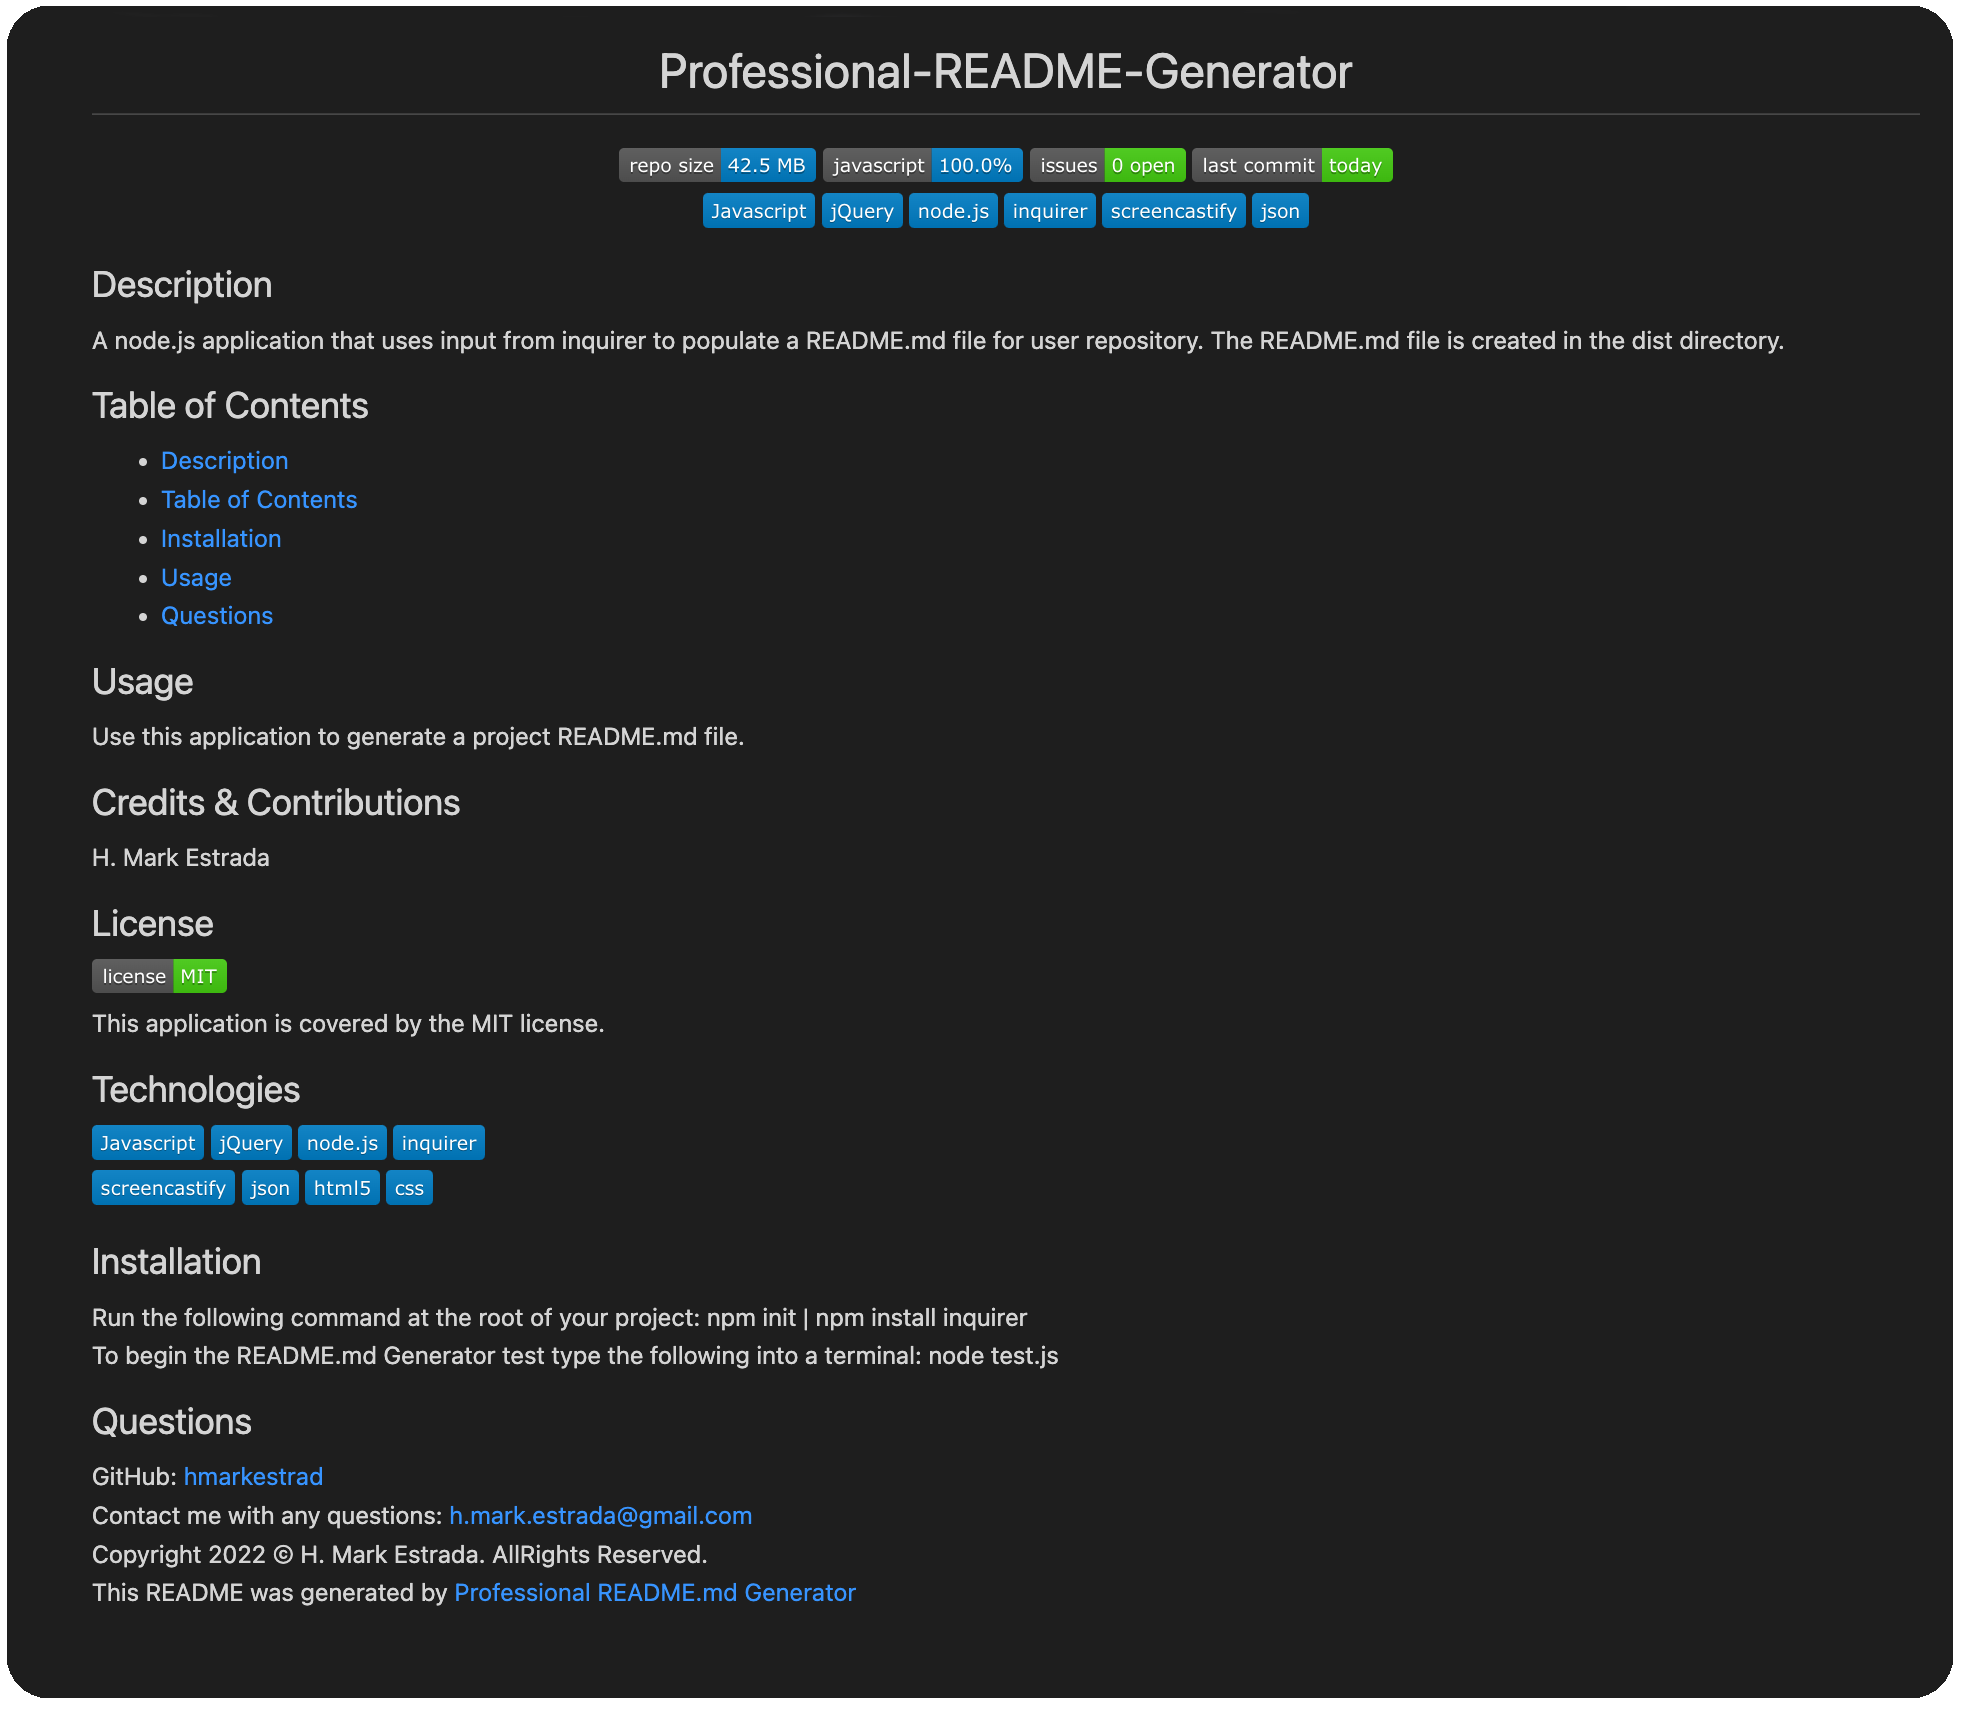
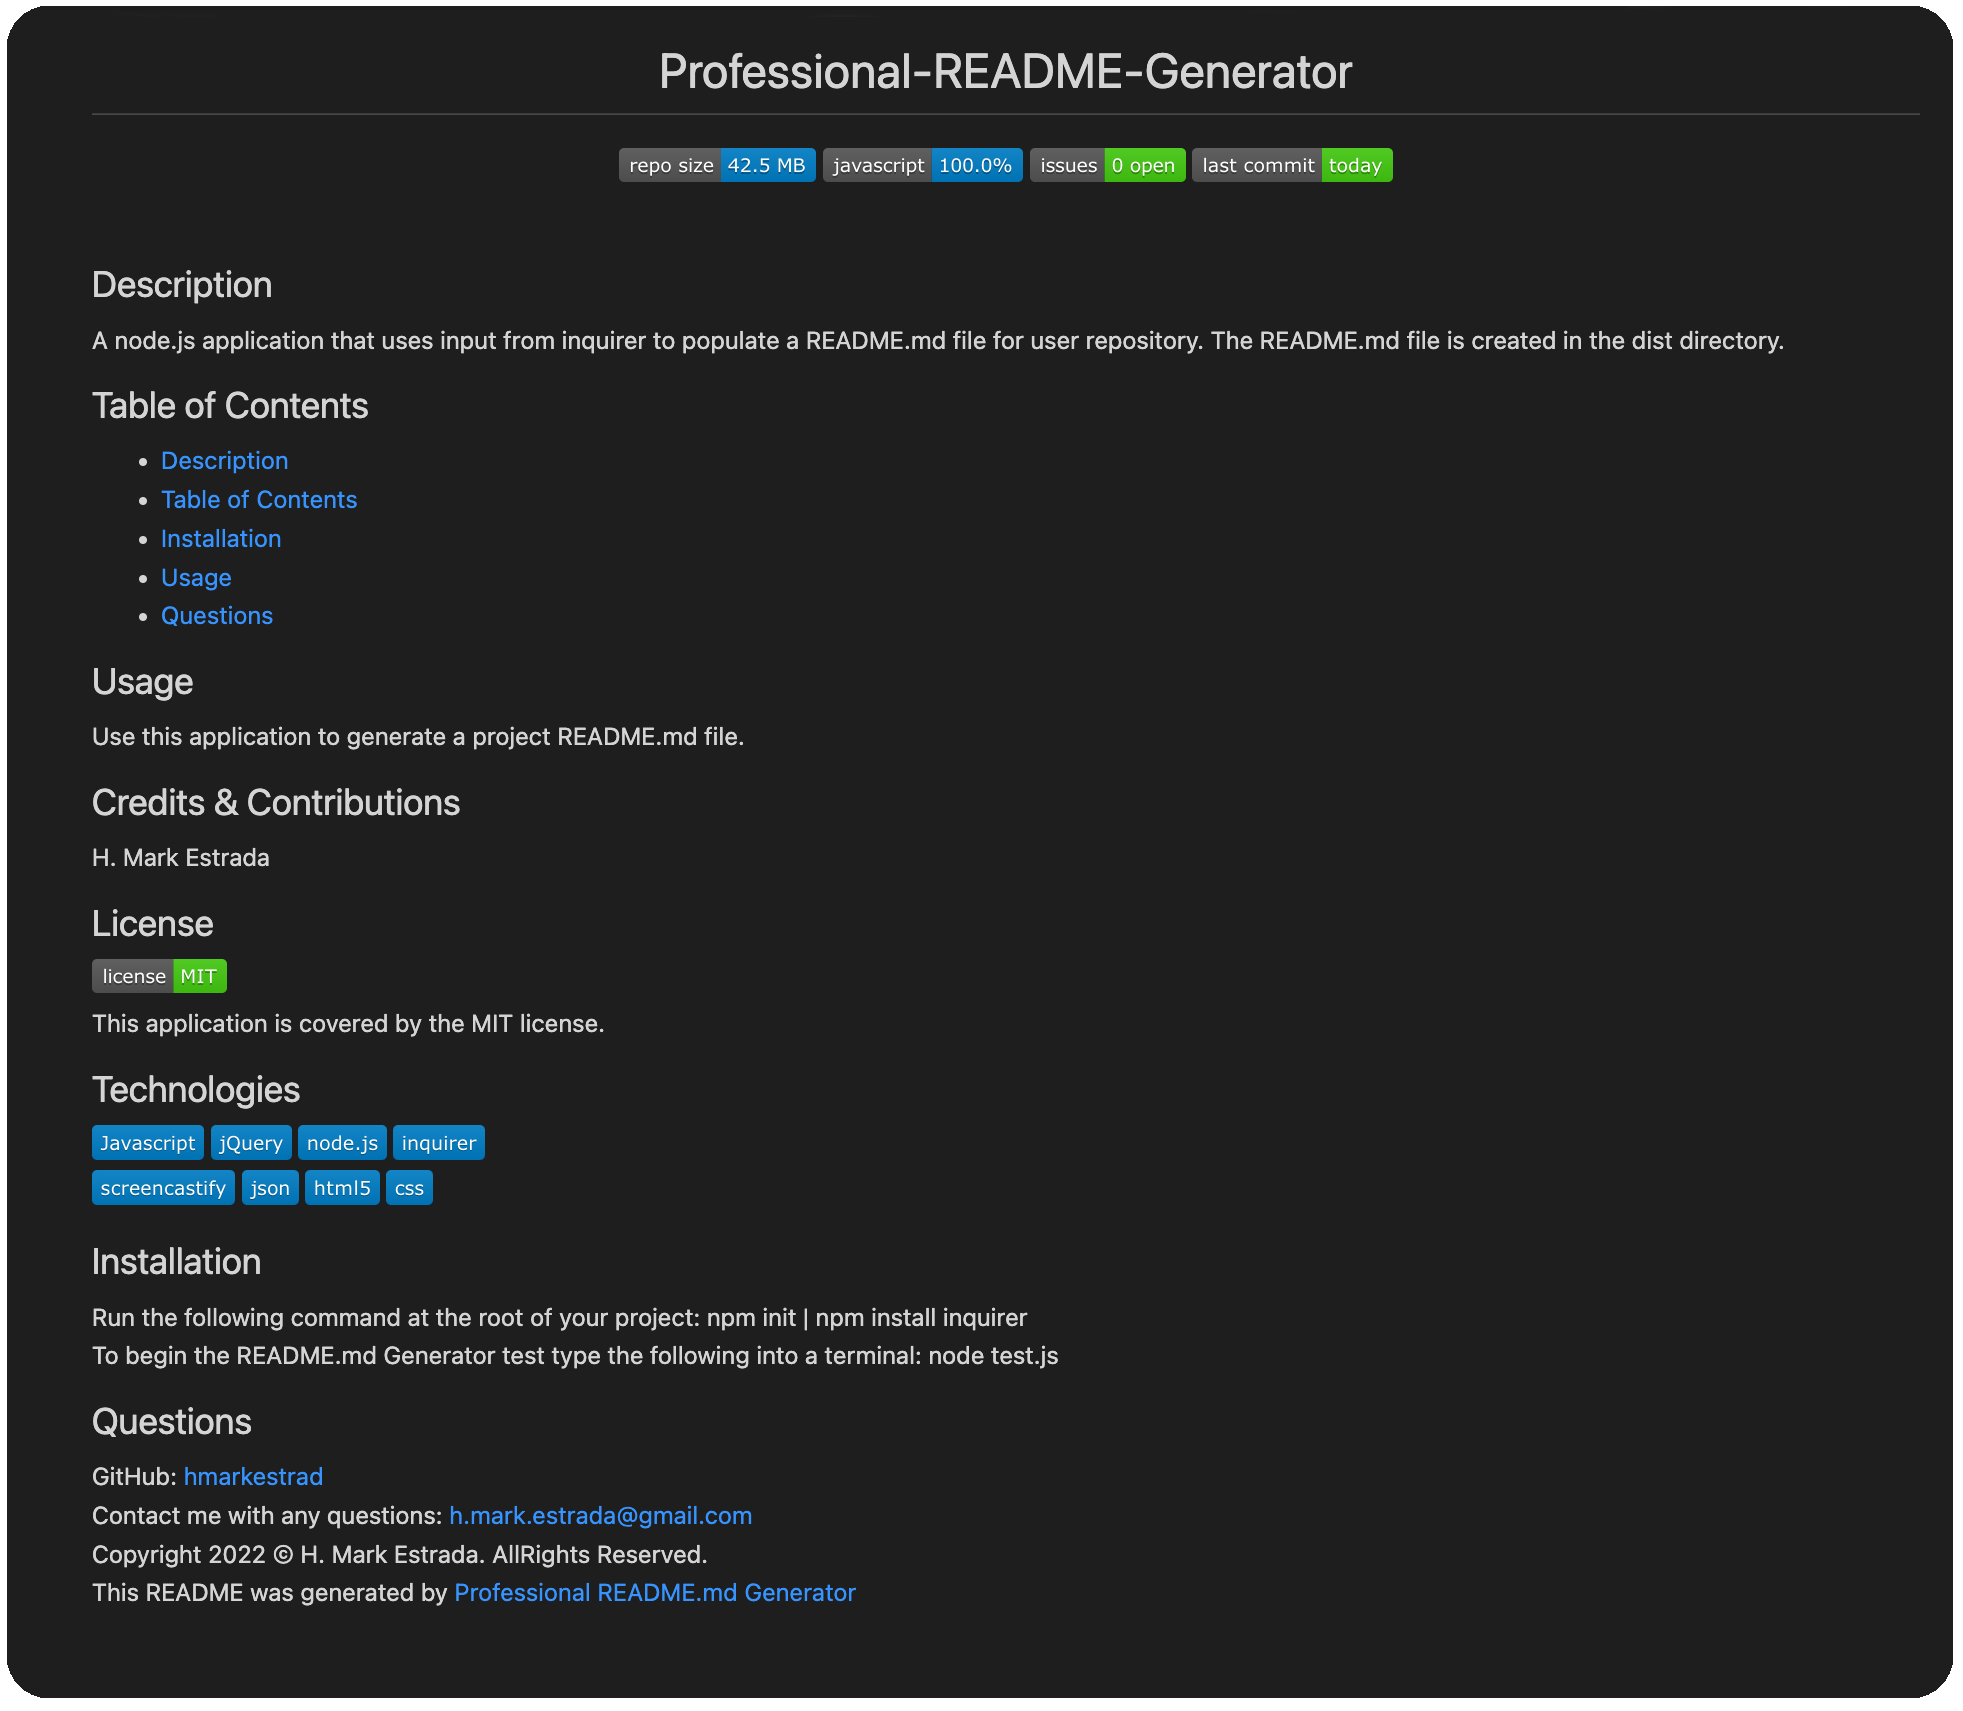
Screen shot updated
Screen shot updated

Changed region(s): [[0.3418, 0.0929, 0.6836, 0.1549]]

diff --git a/utils/generateReadme.js b/utils/generateReadme.js
@@ -7,13 +7,7 @@ function generateReadme(answers) {
 <img src="https://img.shields.io/github/repo-size/${answers.username}/${answers.projectTitle}" />
 <img src="https://img.shields.io/github/languages/top/${answers.username}/${answers.projectTitle}"  />
 <img src="https://img.shields.io/github/issues/${answers.username}/${answers.projectTitle}" />
-<img src="https://img.shields.io/github/last-commit/${answers.username}/${answers.projectTitle}" ><br>
-    <img src="https://img.shields.io/badge/Javascript-blue" />
-    <img src="https://img.shields.io/badge/jQuery-blue"  />
-    <img src="https://img.shields.io/badge/-node.js-blue" />
-    <img src="https://img.shields.io/badge/-inquirer-blue" >
-    <img src="https://img.shields.io/badge/-screencastify-blue" />
-    <img src="https://img.shields.io/badge/-json-blue" />
+<img src="https://img.shields.io/github/last-commit/${answers.username}/${answers.projectTitle}" >
 </p>
   
 ## Description

diff --git a/README.md b/README.md
@@ -5,13 +5,7 @@
 <img src="https://img.shields.io/github/repo-size/hmarkestrad/Professional-README-Generator" />
 <img src="https://img.shields.io/github/languages/top/hmarkestrad/Professional-README-Generator"  />
 <img src="https://img.shields.io/github/issues/hmarkestrad/Professional-README-Generator" />
-<img src="https://img.shields.io/github/last-commit/hmarkestrad/Professional-README-Generator" ><br>
-    <img src="https://img.shields.io/badge/Javascript-blue" />
-    <img src="https://img.shields.io/badge/jQuery-blue"  />
-    <img src="https://img.shields.io/badge/-node.js-blue" />
-    <img src="https://img.shields.io/badge/-inquirer-blue" >
-    <img src="https://img.shields.io/badge/-screencastify-blue" />
-    <img src="https://img.shields.io/badge/-json-blue" />
+<img src="https://img.shields.io/github/last-commit/hmarkestrad/Professional-README-Generator" >
 </p>
   
 ## Description
